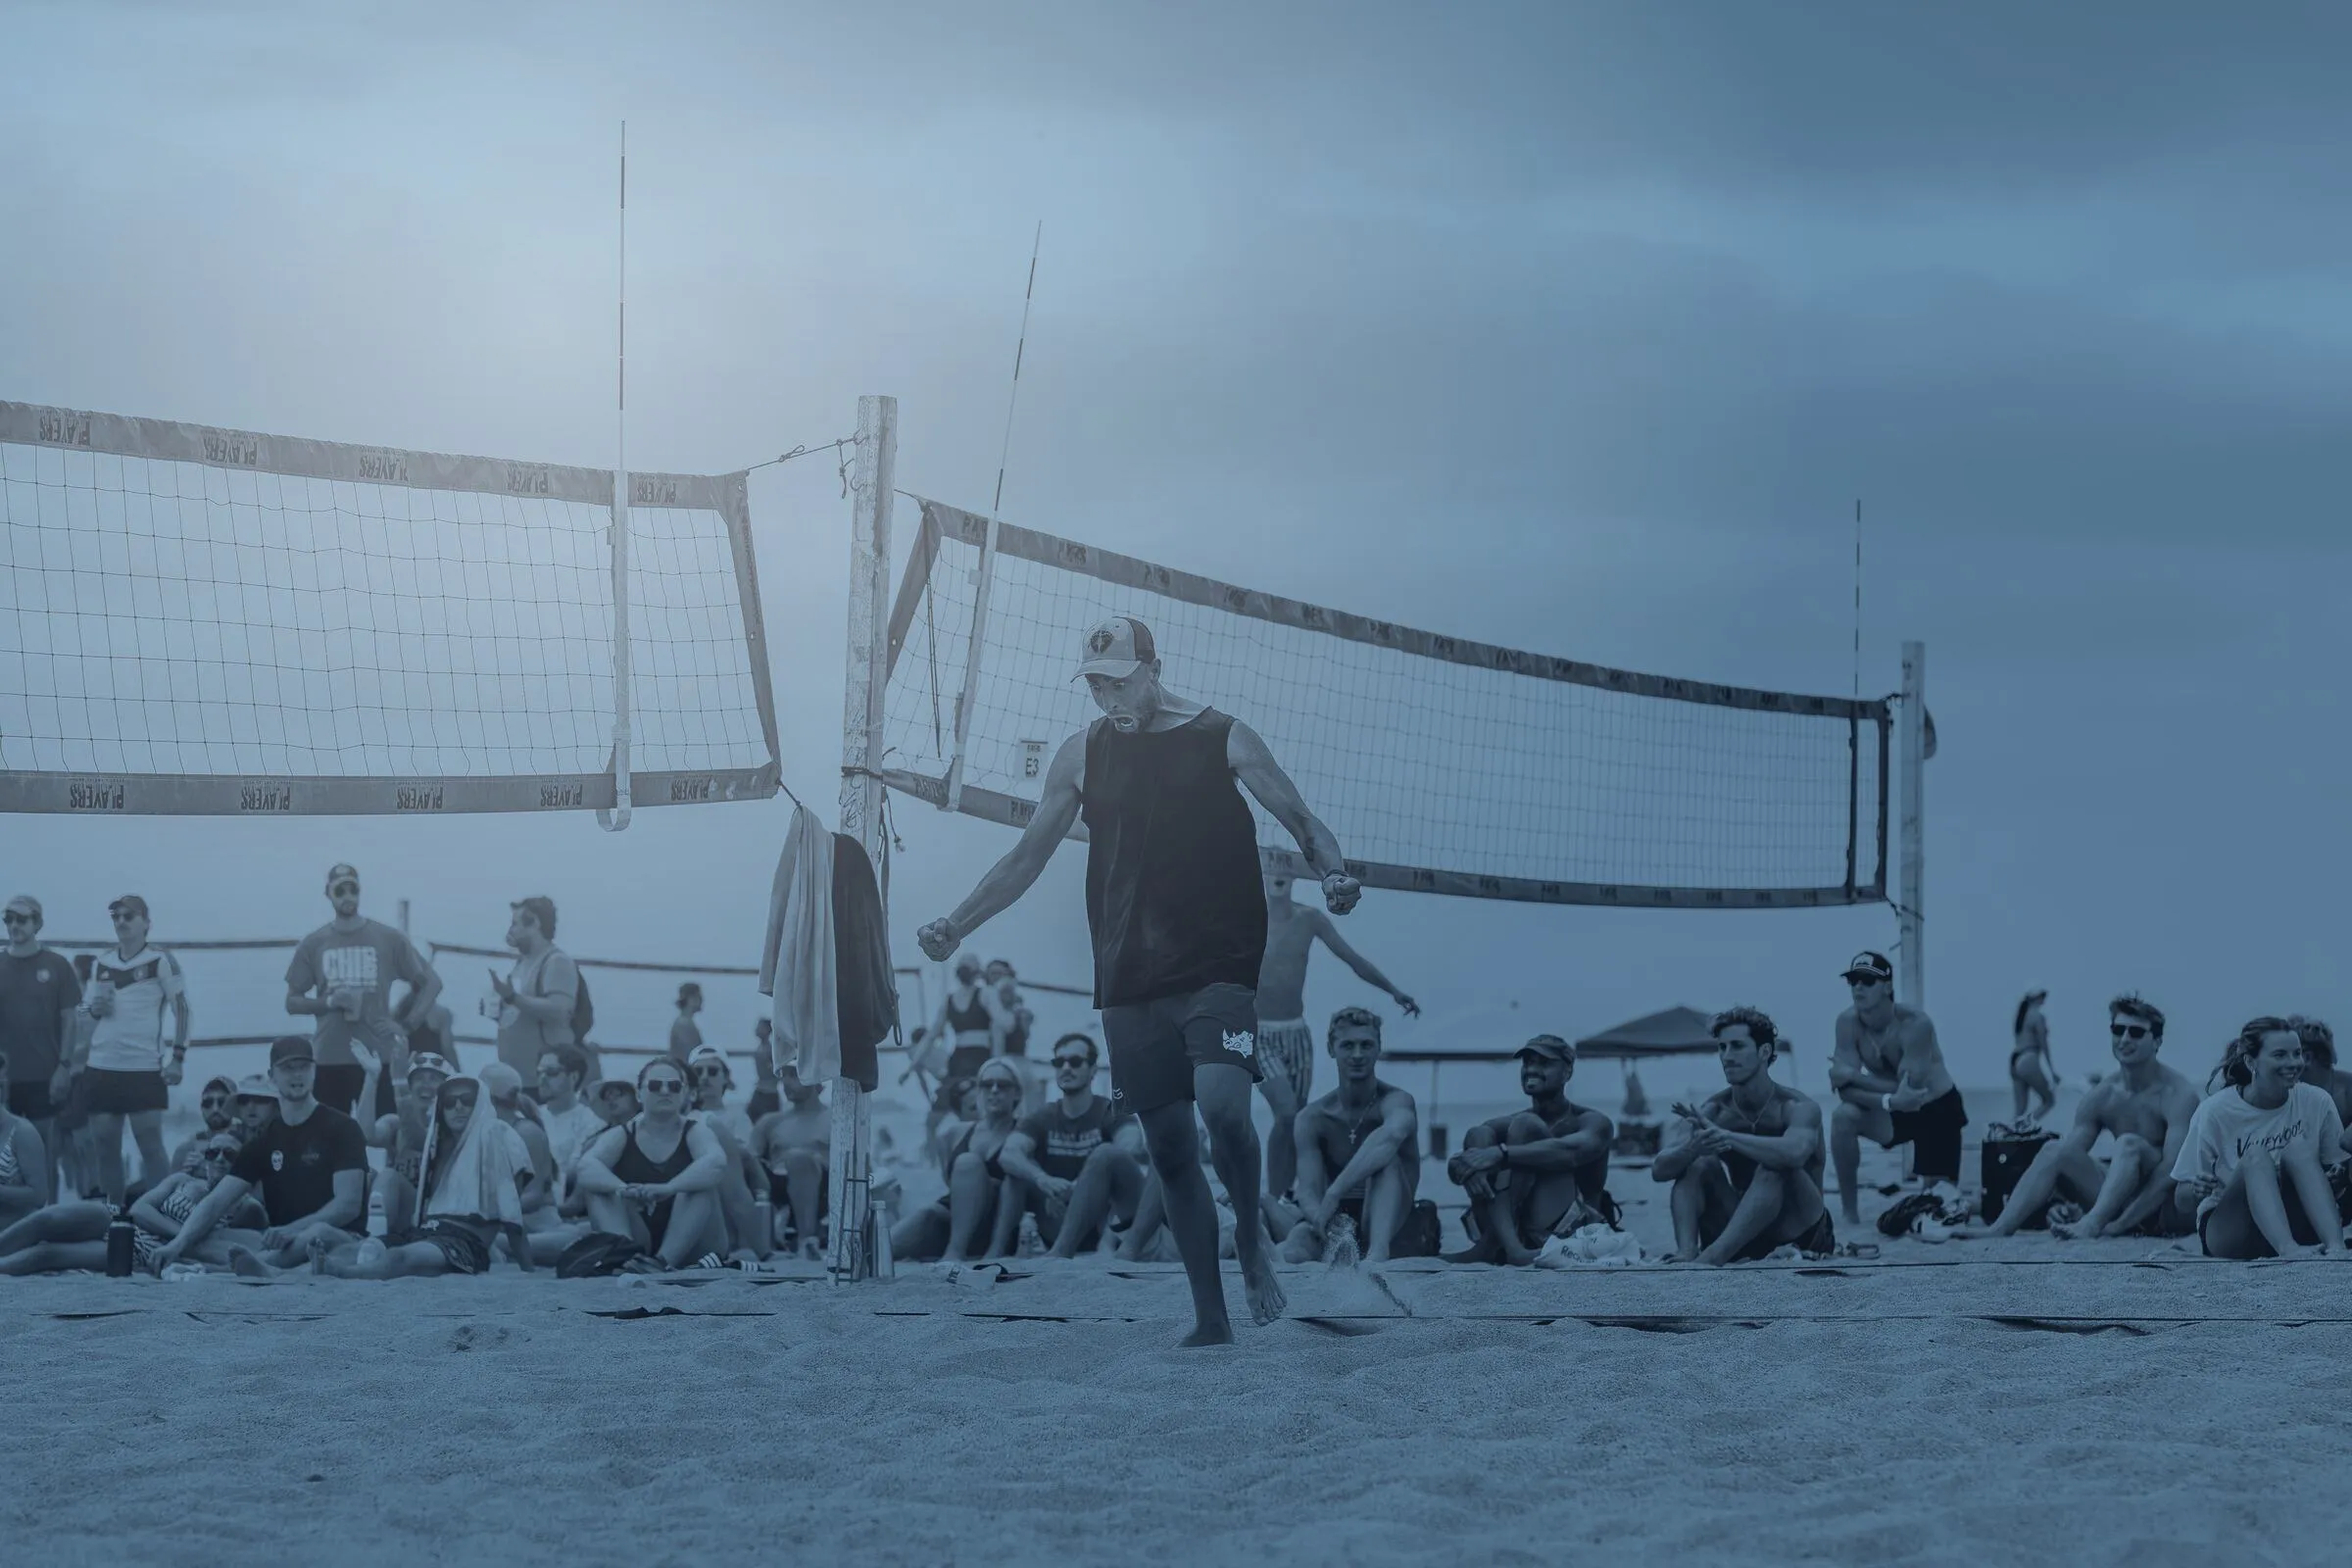
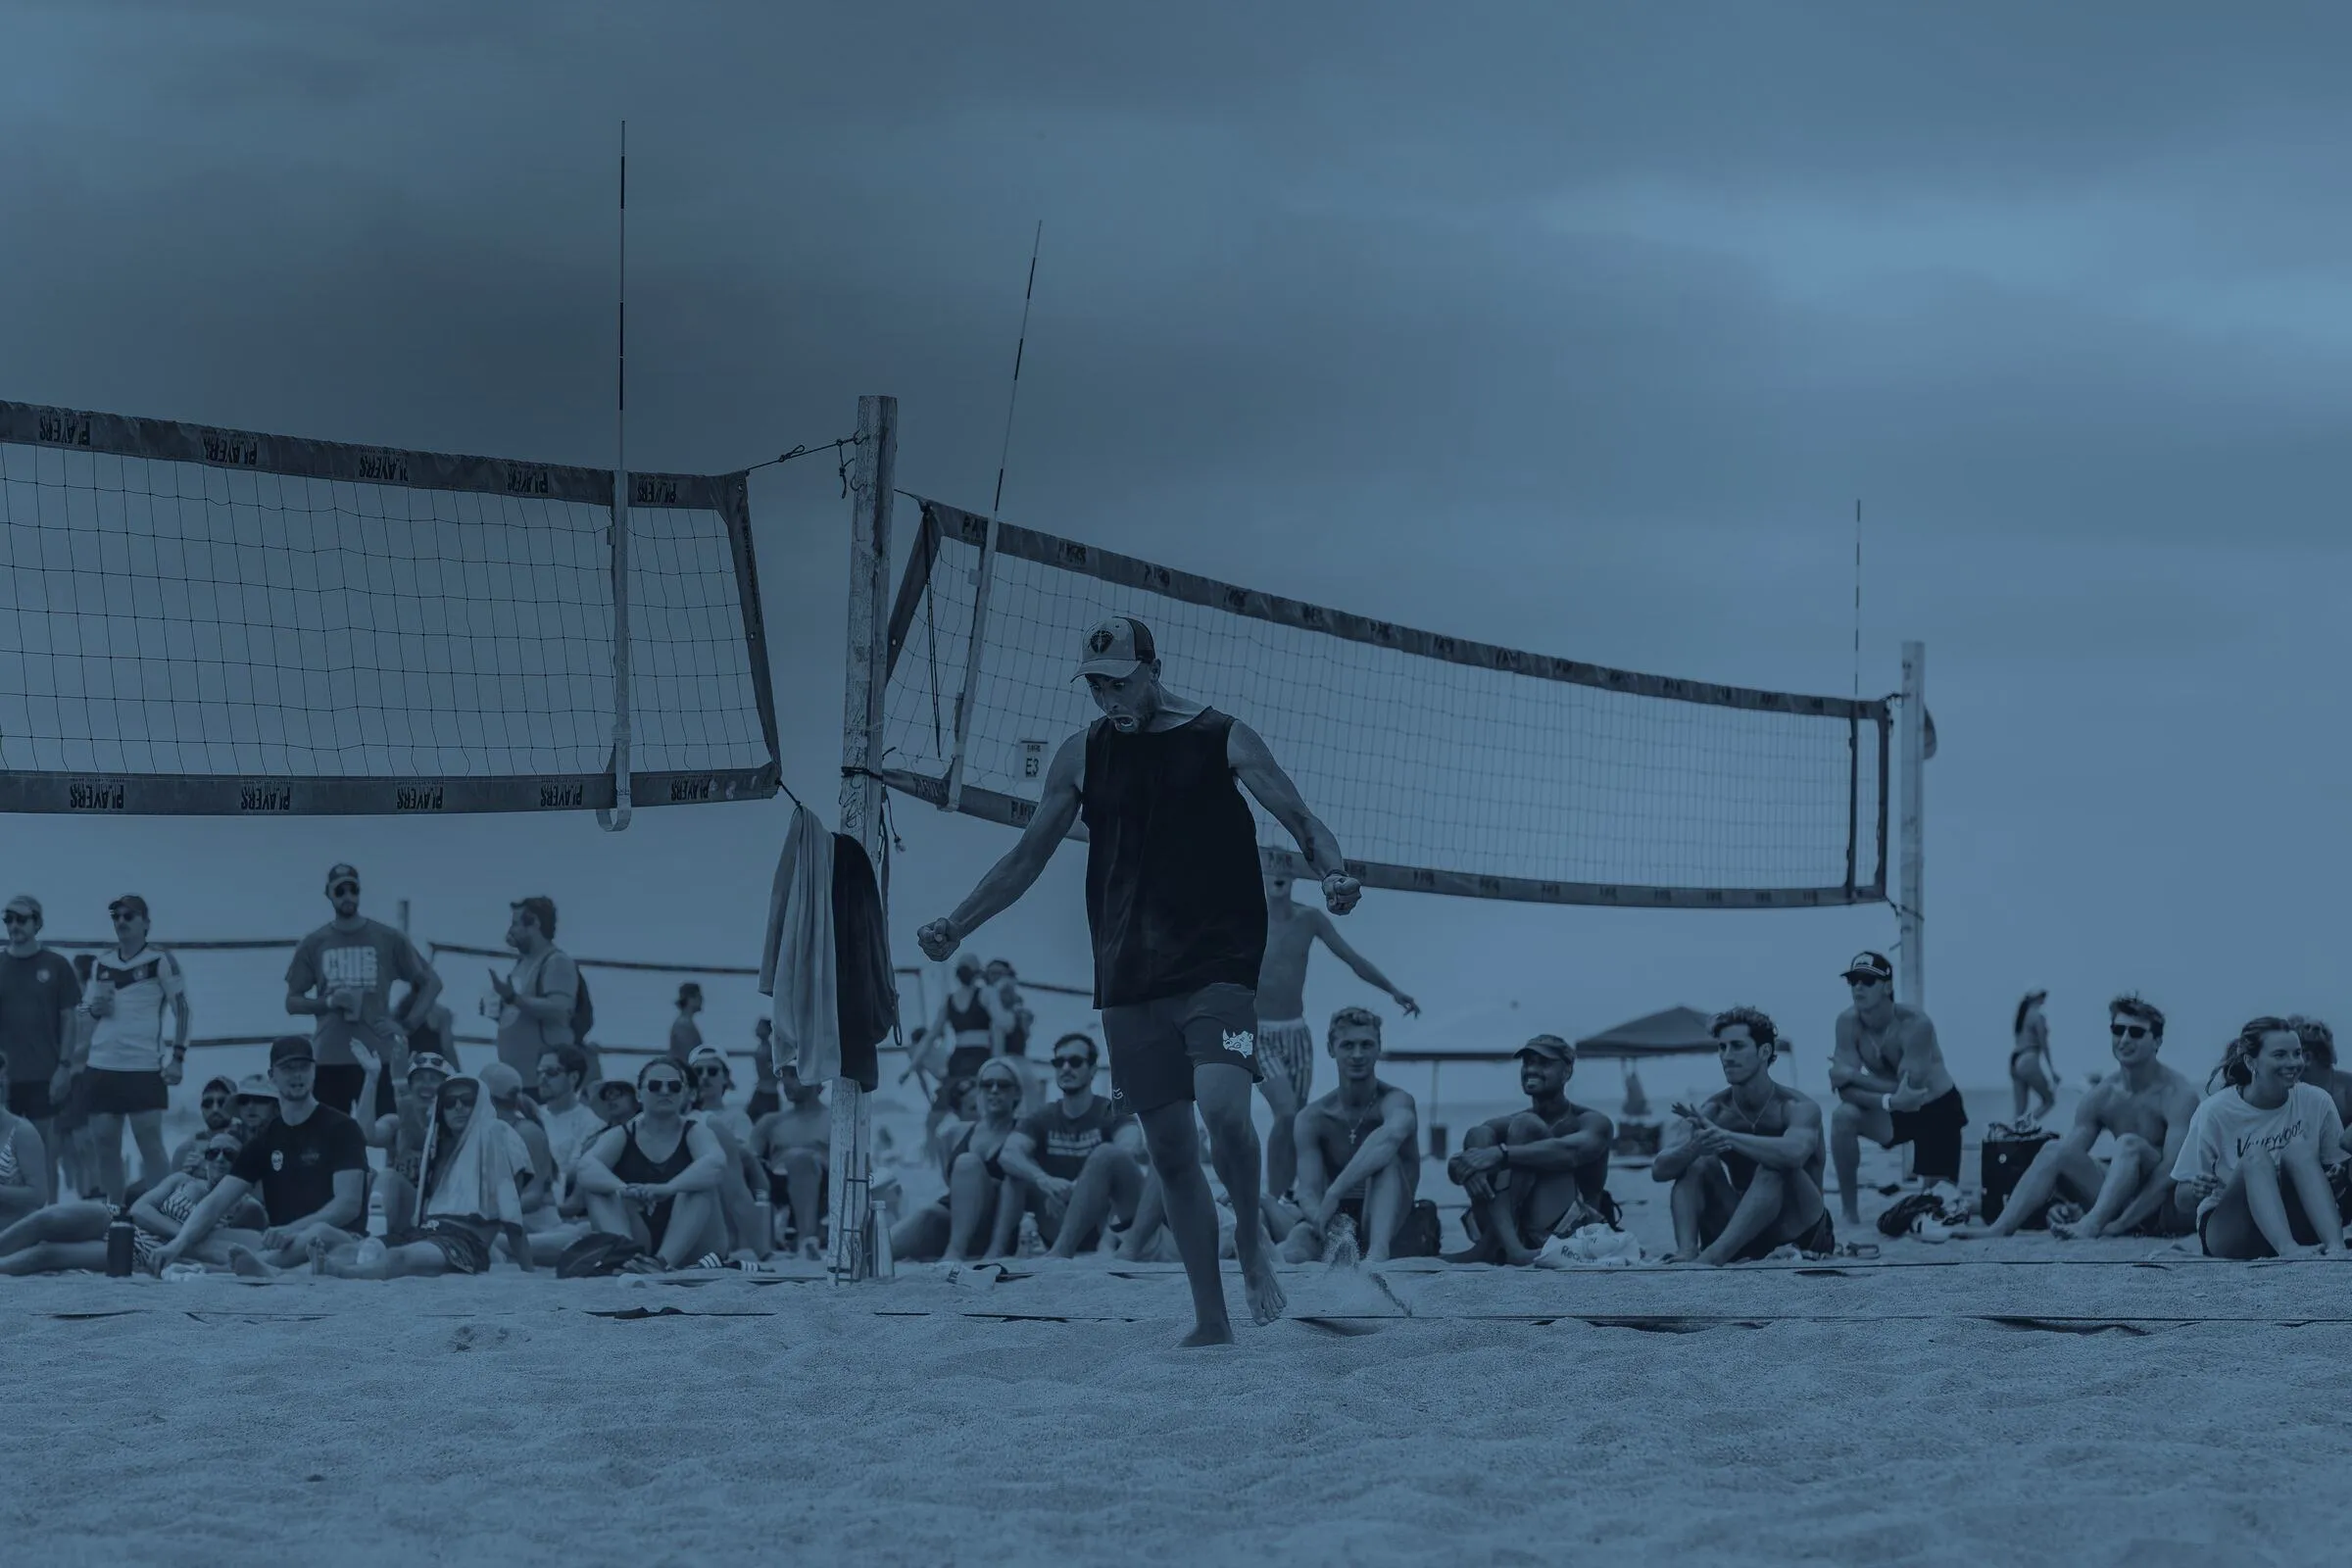
feat: hero name flips to bone on a darkened sky (owner A/B verdict)
Both text colors were tested against the frame: the untouched mid-tone sky
supports neither (ink 4.3:1, bone 3.5:1), so the photo moves either way.
The A/B: ink-on-lightened-sky (skyglow2) vs bone-on-darkened-sky
(multiply composite, same radial geometry) — bone wins at 7.3:1 because
the darkening disappears into the frame's dusk mood, the name carries
more authority, and bone-on-dark is already the site's in-photo type
language (ALL WORK caption, PHOTOGRAPHY title, session chips). The
lightened-sky experiment retires after one round.

diff --git a/app/globals.css b/app/globals.css
@@ -7114,10 +7114,10 @@ h3 {
   justify-content: space-between;
   min-height: min(92vh, 980px);
   background-color: var(--ink);
-  background-image: url("/images/home-hero-frame.jpg?v=skyglow2");
+  background-image: url("/images/home-hero-frame.jpg?v=skydark1");
   background-image: image-set(
-    url("/images/home-hero-frame.webp?v=skyglow2") type("image/webp"),
-    url("/images/home-hero-frame.jpg?v=skyglow2") type("image/jpeg")
+    url("/images/home-hero-frame.webp?v=skydark1") type("image/webp"),
+    url("/images/home-hero-frame.jpg?v=skydark1") type("image/jpeg")
   );
   background-size: cover;
   background-position: center 38%;
@@ -7148,7 +7148,7 @@ h3 {
   line-height: 0.88;
   letter-spacing: var(--hero-tracking);
   text-transform: uppercase;
-  color: var(--ink);
+  color: var(--bone);
 }
 
 .field-hero h1 span {
@@ -7603,7 +7603,7 @@ h3 {
         rgb(7 16 21 / 0.62) 74%,
         rgb(7 16 21 / 0.88) 100%
       ),
-      url("/images/home-hero-frame.jpg?v=skyglow2");
+      url("/images/home-hero-frame.jpg?v=skydark1");
     background-image: linear-gradient(
         180deg,
         rgb(7 16 21 / 0) 0%,
@@ -7612,8 +7612,8 @@ h3 {
         rgb(7 16 21 / 0.88) 100%
       ),
       image-set(
-        url("/images/home-hero-frame-narrow.webp?v=skyglow2") type("image/webp"),
-        url("/images/home-hero-frame.jpg?v=skyglow2") type("image/jpeg")
+        url("/images/home-hero-frame-narrow.webp?v=skydark1") type("image/webp"),
+        url("/images/home-hero-frame.jpg?v=skydark1") type("image/jpeg")
       );
     background-size: cover, cover;
     background-position: center, center 30%;
